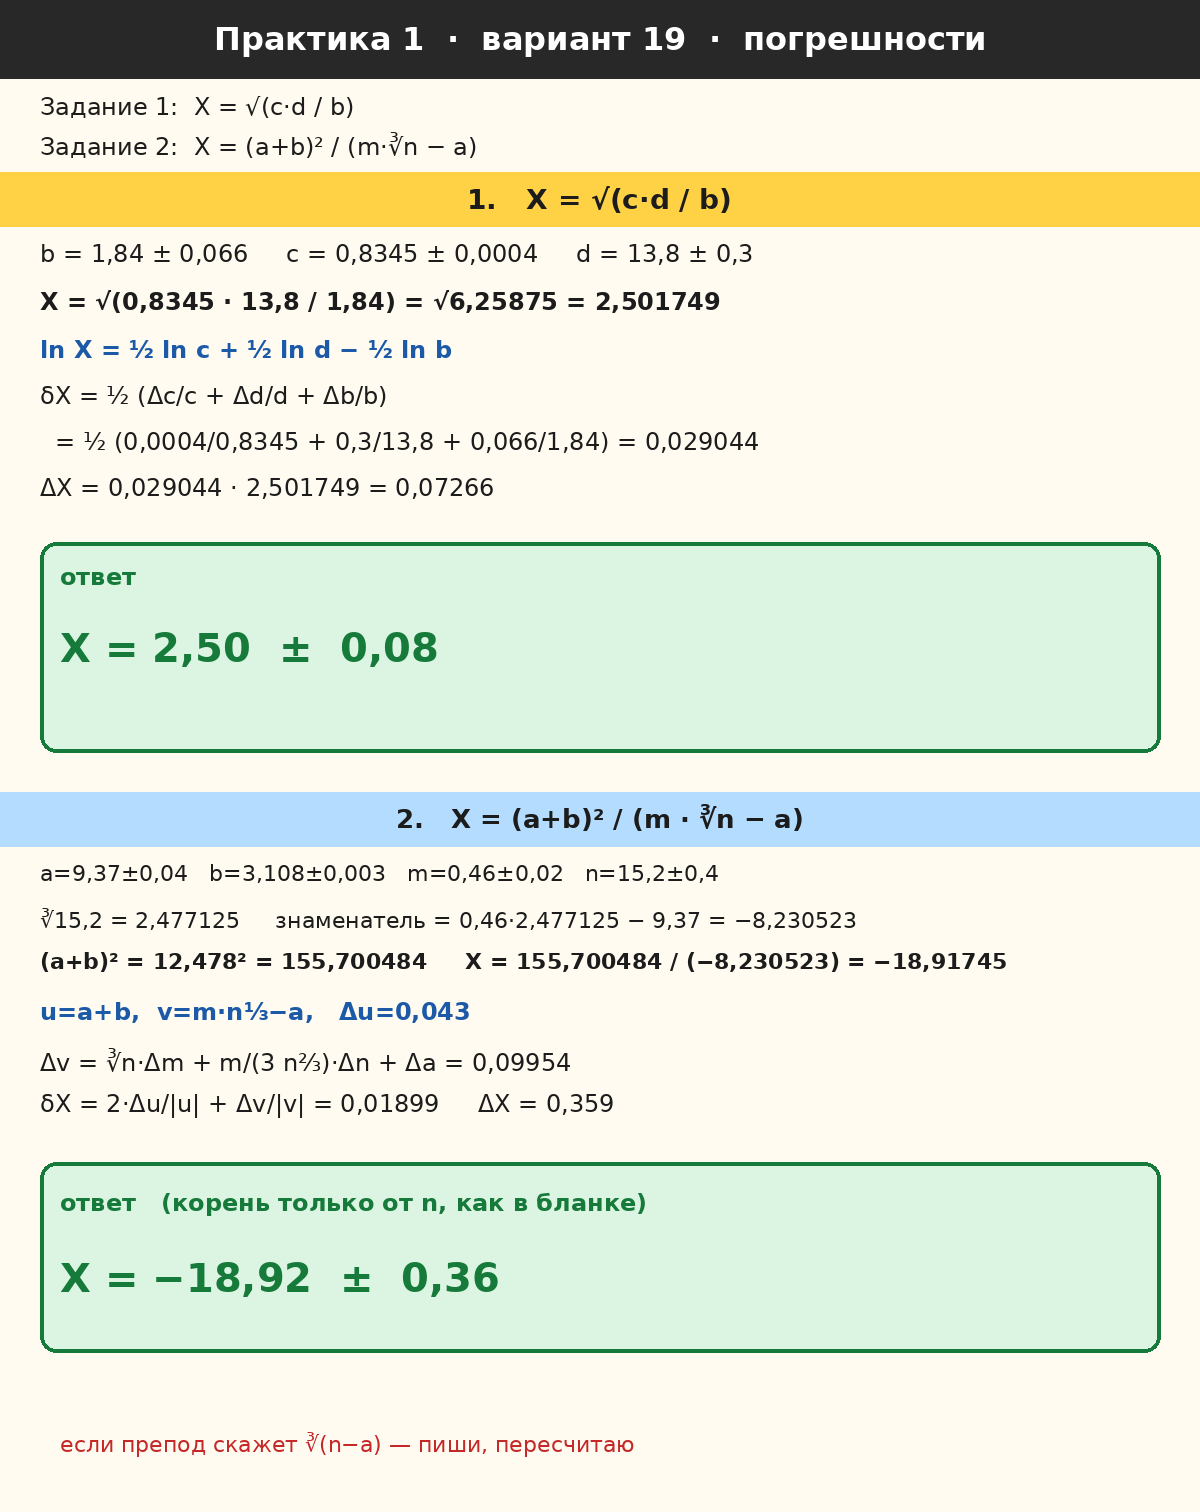
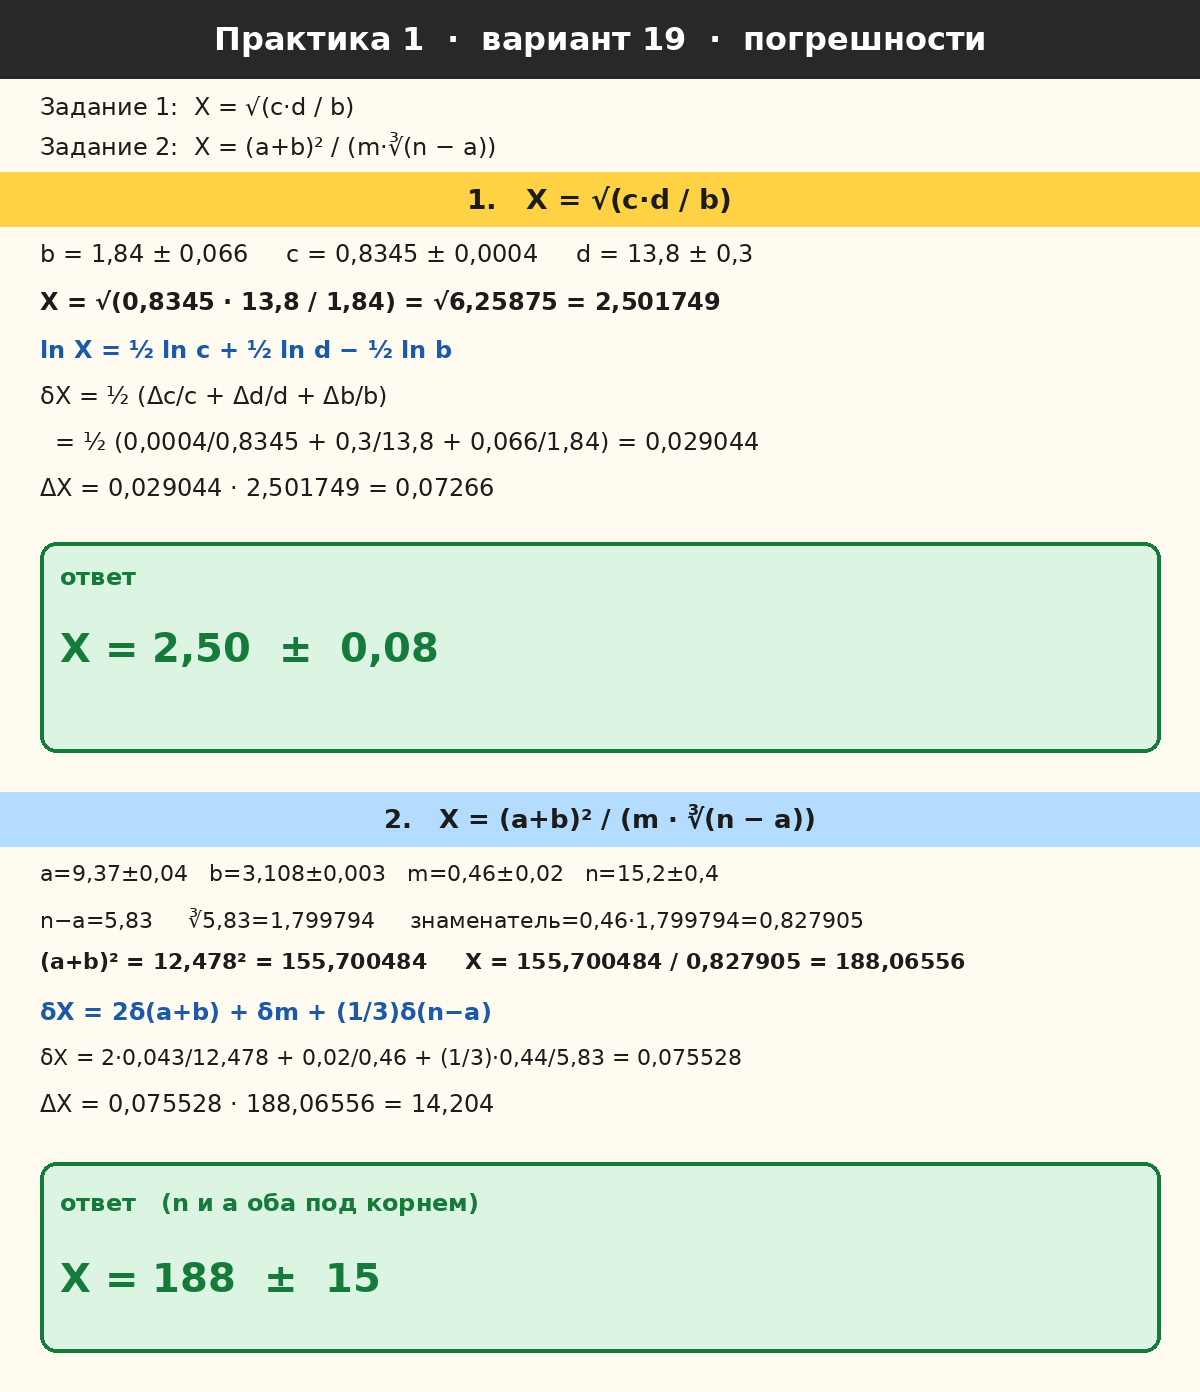
Fix practical 1 task 2: cube root of (n-a), not n.
Recalculate X and errors for X=(a+b)²/(m·∛(n-a)) and redraw the notebook sheet.

diff --git a/ucheba/praktiki_v19/render_pr1_tetrad.py b/ucheba/praktiki_v19/render_pr1_tetrad.py
@@ -71,41 +71,40 @@ def sheet_z1():
 
 
 def sheet_z2():
-    im, d = notebook(36)
+    im, d = notebook(38)
     write(d, 1, "Практическая работа № 1", 26, bold=True)
     write(d, 2, "Тема:  Погрешности вычислений", 24)
     write(d, 3, "Вариант  19", 24)
 
     write(d, 5, "Задание 2:", 26, BLUE, True)
-    write(d, 6, "X  =  (a + b)²  /  (m · ∛n  −  a)", 26, bold=True)
+    write(d, 6, "X  =  (a + b)²  /  (m · ∛(n − a))", 26, bold=True)
 
     write(d, 8, "a  =  9,37  ±  0,04", 24)
     write(d, 9, "b  =  3,108  ±  0,003", 24)
     write(d, 10, "m  =  0,46  ±  0,02", 24)
     write(d, 11, "n  =  15,2  ±  0,4", 24)
 
-    write(d, 13, "∛15,2  =  2,477125", 24)
-    write(d, 14, "a + b  =  12,478      (a + b)²  =  155,700484", 24)
-    write(d, 15, "m · ∛n − a  =  0,46 · 2,477125 − 9,37  =  −8,230523", 22)
-    write(d, 16, "X  =  155,700484 / (−8,230523)  =  −18,91745", 24, bold=True)
+    write(d, 13, "n − a  =  15,2 − 9,37  =  5,83", 24)
+    write(d, 14, "∛(n − a)  =  ∛5,83  =  1,799794", 24)
+    write(d, 15, "a + b  =  12,478      (a + b)²  =  155,700484", 24)
+    write(d, 16, "m · ∛(n − a)  =  0,46 · 1,799794  =  0,827905", 24)
+    write(d, 17, "X  =  155,700484 / 0,827905  =  188,06556", 24, bold=True)
 
-    write(d, 18, "u = a+b,     v = m·∛n − a,     X = u² / v", 24, BLUE, True)
-    write(d, 19, "δX  =  2 δu  +  δv  =  2 Δu/|u|  +  Δv/|v|", 24)
+    write(d, 19, "δX  =  2 δ(a+b)  +  δm  +  (1/3) δ(n−a)  =", 24)
+    write(d, 20, "     =  2 Δ(a+b)/|a+b|  +  Δm/|m|  +  (1/3) Δ(n−a)/|n−a|", 22)
+    write(d, 21, "Δ(a+b)  =  0,04 + 0,003  =  0,043", 24)
+    write(d, 22, "Δ(n−a)  =  0,4 + 0,04  =  0,44", 24)
+    write(d, 23, "     =  2·0,043/12,478  +  0,02/0,46  +  (1/3)·0,44/5,83  =", 21)
+    write(d, 24, "     =  0,006892  +  0,043478  +  0,025157  =  0,075528", 22)
 
-    write(d, 21, "Δu  =  Δa + Δb  =  0,04 + 0,003  =  0,043", 24)
-    write(d, 22, "Δv  =  ∛n·Δm  +  m/(3 n⅔)·Δn  +  Δa  =", 24)
-    write(d, 23, "     =  2,477125·0,02  +  0,46/(3·6,136147)·0,4  +  0,04  =", 21)
-    write(d, 24, "     =  0,049542  +  0,009995  +  0,04  =  0,09954", 22)
+    write(d, 26, "≈  7,6 %", 24, bold=True)
 
-    write(d, 26, "δX  =  2·0,043/12,478  +  0,09954/8,230523  =  0,01899", 22)
-    write(d, 27, "≈  1,9 %", 24, bold=True)
+    write(d, 28, "ΔX  =  0,075528 · 188,06556  =  14,204", 24)
+    write(d, 29, "округляем ΔX с избытком:   15", 24)
+    write(d, 30, "X округляем до единиц (тот же знак)", 22)
 
-    write(d, 29, "ΔX  =  0,01899 · 18,91745  =  0,359", 24)
-    write(d, 30, "округляем ΔX с избытком:   0,36", 24)
-    write(d, 31, "X округляем до того же знака", 22)
-
-    write(d, 33, "X  =  −18,92  ±  0,36", 30, GREEN, True)
-    return im.crop((0, 0, W, 35 * STEP))
+    write(d, 32, "X  =  188  ±  15", 30, GREEN, True)
+    return im.crop((0, 0, W, 34 * STEP))
 
 
 def main():

diff --git a/ucheba/praktiki_v19/render_paint.py b/ucheba/praktiki_v19/render_paint.py
@@ -109,7 +109,7 @@ def sheet_pr1():
             "Практика 1  ·  вариант 19  ·  погрешности",
             [
                 "Задание 1:  X = √(c·d / b)",
-                "Задание 2:  X = (a+b)² / (m·∛n − a)",
+                "Задание 2:  X = (a+b)² / (m·∛(n − a))",
             ],
         )
     ]
@@ -129,20 +129,19 @@ def sheet_pr1():
     txt(d, (60, 460), "X = 2,50  ±  0,08", 40, GREEN, True)
     parts.append(im)
 
-    im = new_im(720)
+    im = new_im(600)
     d = ImageDraw.Draw(im)
     d.rectangle([0, 0, W, 54], fill=(180, 220, 255))
-    txt(d, (W / 2, 27), "2.   X = (a+b)² / (m · ∛n − a)", 26, bold=True, anchor="mm")
+    txt(d, (W / 2, 27), "2.   X = (a+b)² / (m · ∛(n − a))", 26, bold=True, anchor="mm")
     txt(d, (40, 72), "a=9,37±0,04   b=3,108±0,003   m=0,46±0,02   n=15,2±0,4", 22)
-    txt(d, (40, 116), "∛15,2 = 2,477125     знаменатель = 0,46·2,477125 − 9,37 = −8,230523", 22)
-    txt(d, (40, 160), "(a+b)² = 12,478² = 155,700484     X = 155,700484 / (−8,230523) = −18,91745", 22, bold=True)
-    txt(d, (40, 210), "u=a+b,  v=m·n⅓−a,   Δu=0,043", 24, BLUE, True)
-    txt(d, (40, 256), "Δv = ∛n·Δm + m/(3 n⅔)·Δn + Δa = 0,09954", 24)
-    txt(d, (40, 302), "δX = 2·Δu/|u| + Δv/|v| = 0,01899     ΔX = 0,359", 24)
+    txt(d, (40, 116), "n−a=5,83     ∛5,83=1,799794     знаменатель=0,46·1,799794=0,827905", 22)
+    txt(d, (40, 160), "(a+b)² = 12,478² = 155,700484     X = 155,700484 / 0,827905 = 188,06556", 22, bold=True)
+    txt(d, (40, 210), "δX = 2δ(a+b) + δm + (1/3)δ(n−a)", 24, BLUE, True)
+    txt(d, (40, 256), "δX = 2·0,043/12,478 + 0,02/0,46 + (1/3)·0,44/5,83 = 0,075528", 22)
+    txt(d, (40, 302), "ΔX = 0,075528 · 188,06556 = 14,204", 24)
     d.rounded_rectangle([40, 370, 1160, 560], radius=16, fill=PAPER_G, outline=GREEN, width=4)
-    txt(d, (60, 400), "ответ   (корень только от n, как в бланке)", 24, GREEN, True)
-    txt(d, (60, 470), "X = −18,92  ±  0,36", 40, GREEN, True)
-    txt(d, (60, 640), "если препод скажет ∛(n−a) — пиши, пересчитаю", 22, RED)
+    txt(d, (60, 400), "ответ   (n и a оба под корнем)", 24, GREEN, True)
+    txt(d, (60, 470), "X = 188  ±  15", 40, GREEN, True)
     parts.append(im)
     return stack(parts)
 

diff --git a/ucheba/praktiki_v19/VARIANT_19.md b/ucheba/praktiki_v19/VARIANT_19.md
@@ -43,47 +43,41 @@ X=\sqrt{\frac{0{,}8345\cdot 13{,}8}{1{,}84}}=\sqrt{6{,}25875}=2{,}501749.
 ## Задание 2
 
 \[
-X=\frac{(a+b)^2}{m\cdot\sqrt[3]{n}-a},\qquad
+X=\frac{(a+b)^2}{m\cdot\sqrt[3]{n-a}},\qquad
 a=9{,}37\pm 0{,}04,\quad
 b=3{,}108\pm 0{,}003,\quad
 m=0{,}46\pm 0{,}02,\quad
 n=15{,}2\pm 0{,}4.
 \]
 
-(Знаменатель как в бланке: \(\sqrt[3]{n}\), не \(\sqrt[3]{n-a}\).)
+Корень от \((n-a)\), оба под кубическим корнем.
 
 \[
-\sqrt[3]{15{,}2}=2{,}477125,\qquad
-m\cdot\sqrt[3]{n}-a=0{,}46\cdot 2{,}477125-9{,}37=-8{,}230523,
+n-a=5{,}83,\qquad
+\sqrt[3]{5{,}83}=1{,}799794,\qquad
+m\cdot\sqrt[3]{n-a}=0{,}46\cdot 1{,}799794=0{,}827905,
 \]
 
 \[
 (a+b)^2=12{,}478^2=155{,}700484,\qquad
-X=\frac{155{,}700484}{-8{,}230523}=-18{,}91745.
-\]
-
-Пусть \(u=a+b\), \(v=m\cdot n^{1/3}-a\). Тогда \(X=u^2/v\).
-
-\[
-\Delta u=\Delta a+\Delta b=0{,}043,
+X=\frac{155{,}700484}{0{,}827905}=188{,}06556.
 \]
 
 \[
-\Delta v=n^{1/3}\Delta m+\frac{m}{3n^{2/3}}\Delta n+\Delta a
-=2{,}477125\cdot 0{,}02+\frac{0{,}46}{3\cdot 15{,}2^{2/3}}\cdot 0{,}4+0{,}04
-=0{,}09954,
+\ln|X|=2\ln|a+b|-\ln|m|-\tfrac13\ln|n-a|,
 \]
 
 \[
-\delta X=2\cdot\frac{\Delta u}{|u|}+\frac{\Delta v}{|v|}
-=2\cdot\frac{0{,}043}{12{,}478}+\frac{0{,}09954}{8{,}230523}=0{,}01899,
+\delta X=2\cdot\frac{\Delta a+\Delta b}{|a+b|}+\frac{\Delta m}{|m|}+\frac13\cdot\frac{\Delta n+\Delta a}{|n-a|}
+=2\cdot\frac{0{,}043}{12{,}478}+\frac{0{,}02}{0{,}46}+\frac13\cdot\frac{0{,}44}{5{,}83}
+=0{,}075528,
 \]
 
 \[
-\Delta X=\delta X\cdot|X|=0{,}359.
+\Delta X=\delta X\cdot X=0{,}075528\cdot 188{,}06556=14{,}204.
 \]
 
-**Ответ:** \(X=-18{,}92\pm 0{,}36\).
+**Ответ:** \(X=188\pm 15\).
 
 ---
 
@@ -278,7 +272,7 @@ I=\frac{0{,}05}{3}\cdot 24{,}476159=0{,}407936.
 | Работа | Задание | Ответ |
 |--------|---------|--------|
 | 1 | 1 | \(X=2{,}50\pm 0{,}08\) |
-| 1 | 2 | \(X=-18{,}92\pm 0{,}36\) |
+| 1 | 2 | \(X=188\pm 15\) |
 | 2 | 1 | \(\xi_1=-1{,}046\); \(\xi_{2,3}=0{,}773\pm 1{,}330 i\) |
 | 2 | 2 | \(\xi=-0{,}8828\) |
 | 5 | 1 | \(I\approx 0{,}23756\) |
